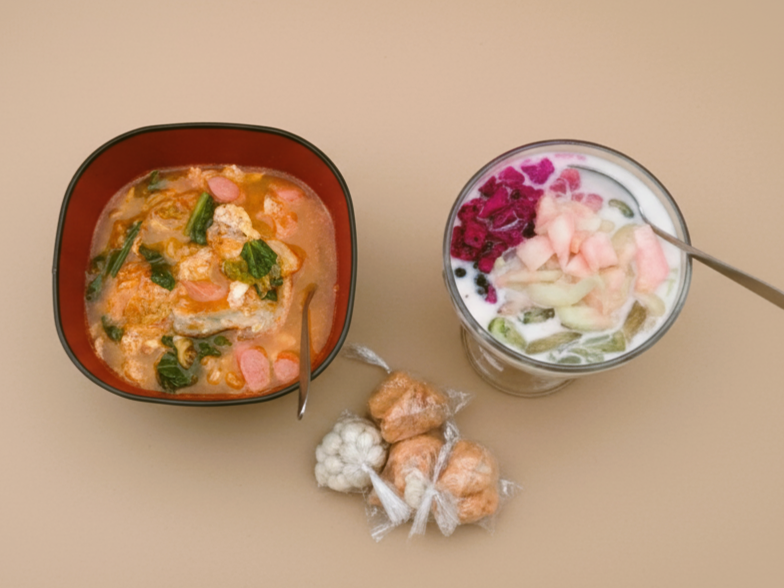
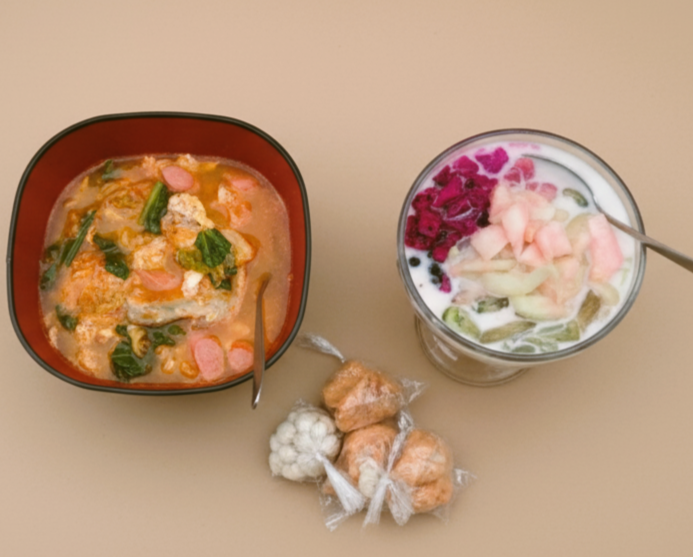
- perbaikan keterangan dan mengganti gambar

Changed region(s): [[0.0, 0.1831, 0.6667, 0.9767], [0.5455, 0.2136, 1.0, 0.702]]

diff --git a/Delicious/app/views/home.php b/Delicious/app/views/home.php
@@ -122,26 +122,17 @@
 
       <div id="hero-carousel" class="carousel slide carousel-fade" data-bs-ride="carousel" data-bs-interval="5000">
 
+        
         <div class="carousel-item active">
-          <img src="assets/img/hero-carousel/hero-carousel-1.jpg" alt="">
-          <div class="carousel-container">
-            <h2><span>Seblak</span> Say Cafe </h2>
-            <p>Tempat sederhana yang berbicara lewat rasa.</p>
-          </div>
-        </div><!-- End Carousel Item -->
-
-        <div class="carousel-item">
           <img src="assets/img/hero-carousel/bg-login.jpg" alt="">
           <div class="carousel-container">
             <h2><span>Seblak</span> Say Cafe </h2>
-            <p>Nikmati cita rasa pedas - gurih hanya disini.</p>
+            <p>Enjoy the spicy and savory taste only here</p>
           </div>
         </div><!-- End Carousel Item -->
 
-      <ol class="carousel-indicators"></ol>
-
     </div>
-
+ 
     </section><!-- /Hero Section -->
 
 
@@ -153,6 +144,12 @@
 
         <!-- Ganti yang ini saja (satu baris) -->
 <div class="row gy-4 flex-column-reverse flex-md-row">
+
+ <!-- Gambar jadi di bawah teks (hanya di mobile) -->
+  <div class="col-lg-6 position-relative align-self-start" data-aos="fade-up" data-aos-delay="100">
+    <img src="assets/img/hero-carousel/bg-hero.png" class="img-fluid" alt="Seblak Say Cafe" style="border: 2px solid #333;">
+  </div>
+  
   <!-- Teks dulu di mobile, gambar sesudahnya -->
   <div class="col-lg-6 content align-self-center text-center" data-aos="fade-up" data-aos-delay="200">
     <h3 class="fs-2">
@@ -183,11 +180,6 @@
       </style>
       
     </a>
-  </div>
-
-  <!-- Gambar jadi di bawah teks (hanya di mobile) -->
-  <div class="col-lg-6 position-relative align-self-start" data-aos="fade-up" data-aos-delay="100">
-    <img src="assets/img/about.jpg" class="img-fluid" alt="Seblak Say Cafe" style="border: 2px solid #8B4513;;">
   </div>
 </div>
       </div>
@@ -231,15 +223,15 @@
             <div class="card-item">
               
               <h4 class="stretched-link">Rumah Semua Kalangan</h4>
-              <p>Mulai dari anak sekolah sampai ibu-ibu yang lewat pun hadir. Kami selalu sedia..</p>
+              <p>Disini kami menyediakan tempat yang pastinya nyaman buat kalian, Jadi jangan lupa mampir yaa!</p>
             </div>
           </div><!-- Card Item -->
 
           <div class="col-lg-4" data-aos="fade-up" data-aos-delay="300">
             <div class="card-item">
               
-              <h4 class="stretched-link">Home Deliverry</h4>
-              <p>Kami juga menyediakan pesan online loo.. Tinggal klik order online maka pesananmu akan sampai kerumah</p>
+              <h4 class="stretched-link">Online Deliverry</h4>
+              <p>Mager keluar? Ngga masalah.. klik "order online" sekarang maka pesananmu akan sampai kerumah</p>
             </div>
           </div><!-- Card Item -->
 
@@ -253,7 +245,7 @@
 
 
     <!-- menu section -->
-    <section id="menu" class="menu section">
+    <section id="menu" class="about section">
   <div class="container">
 
   <!-- Section Title -->
@@ -280,35 +272,35 @@
           View Menu
         <style>
           .btn {
-  color: var(--contrast-color);
-  background: var(--accent-color);
-  font-weight: 500;
-  font-size: 14px;
-  letter-spacing: 1px;
-  padding: 8px 28px;
-  border-radius: 50px;
-  text-decoration: none;
-  white-space: nowrap;
-  transition: 0.3s;
-}
+          color: var(--contrast-color);
+          background: var(--accent-color);
+          font-weight: 500;
+          font-size: 14px;
+          letter-spacing: 1px;
+          padding: 8px 28px;
+          border-radius: 50px;
+          text-decoration: none;
+          white-space: nowrap;
+          transition: 0.3s;
+          }
 
-.btn:hover{transform:scale(1.15);background:#ffcf3a;}
+          .btn:hover{transform:scale(1.15);background:#ffcf3a;}
        
        </style>
         </a>
       </div>
       
-      <div class="col-lg-3 col-md-4 dark-background">
+      <div class="col-lg-3 col-md-4">
             <div class="gallery-item">
-              <a href="assets/img/gallery/seblak-img.jpg" class="glightbox" data-gallery="images-gallery">
-                <img src="assets/img/gallery/seblak-img.jpg" alt="" class="img-fluid" style="border: 5px solid #c68252ff;;">
+              <a href="assets/img/gallery/seblak-3.png" class="glightbox" data-gallery="images-gallery">
+                <img src="assets/img/gallery/seblak-3.png" alt="" class="img-fluid" style="border: 5px solid #c68252ff;;">
               </a>
             </div>
           </div><!-- End Gallery Item -->
           <div class="col-lg-3 col-md-4">
             <div class="gallery-item">
-              <a href="assets/img/gallery/seblak-2.png" class="glightbox" data-gallery="images-gallery">
-                <img src="assets/img/gallery/seblak-2.png" alt="" class="img-fluid" style="border: 5px solid #8B4513;;">
+              <a href="assets/img/gallery/seblak-4.png" class="glightbox" data-gallery="images-gallery">
+                <img src="assets/img/gallery/seblak-4.png" alt="" class="img-fluid" style="border: 5px solid #8B4513;;">
               </a>
             </div>
           </div><!-- End Gallery Item -->

diff --git a/Delicious/app/views/about.php b/Delicious/app/views/about.php
@@ -122,7 +122,7 @@
       <div id="hero-carousel" class="carousel slide carousel-fade" data-bs-ride="carousel" data-bs-interval="5000">
 
         <div class="carousel-item active">
-          <img src="assets/img/hero-carousel/bg2.jpeg" alt="">
+          <img src="assets/img/bg-login.jpg" alt="">
           <div class="carousel-container">
             <h2><span>About</span></h2>
           </div>
